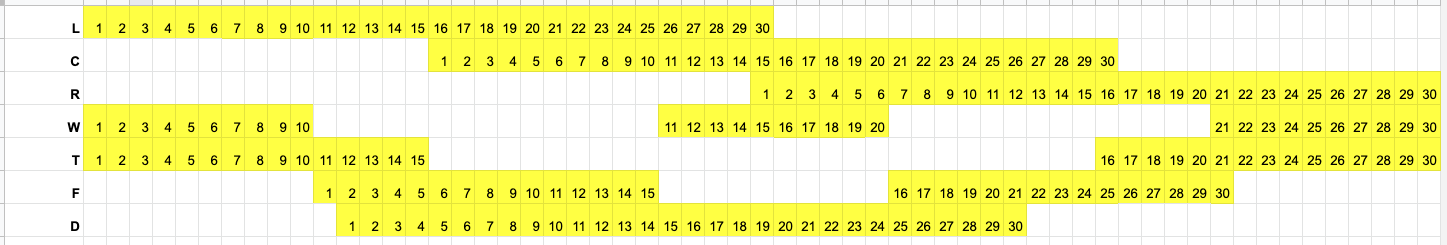
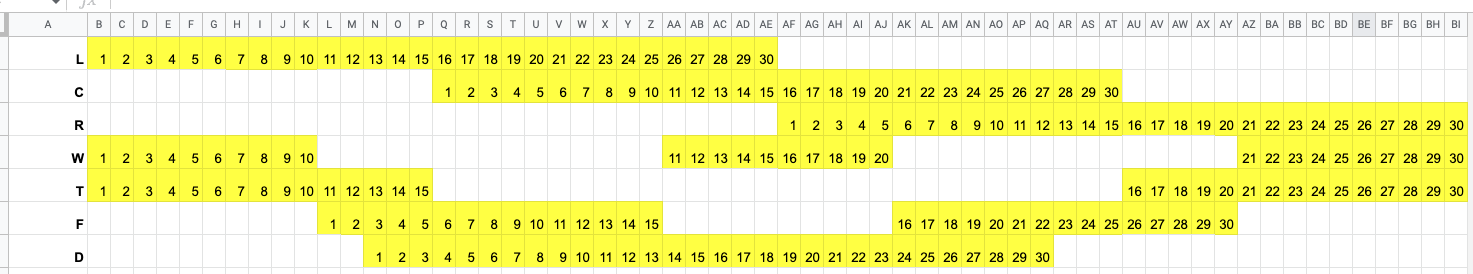
Update fakehd row mappings for switch back to 60 cols
Docs bump for grid size

Rename fakehd display info to full_display info to better reflect revised usage

diff --git a/jni/fakehd/fakehd.c b/jni/fakehd/fakehd.c
@@ -136,20 +136,20 @@ static void fakehd_get_row_config(int rownum, int row[INPUT_COLS])
         memcpy(row, (int[]){15, 16, 17, 18, 19, 20, 21, 22, 23, 24, 25, 26, 27, 28, 29, 30, 31, 32, 33, 34, 35, 36, 37, 38, 39, 40, 41, 42, 43, 44}, sizeof(row[0]) * INPUT_COLS);
         break;
     case 'R':
-        memcpy(row, (int[]){29, 30, 31, 32, 33, 34, 35, 36, 37, 38, 39, 40, 41, 42, 43, 44, 45, 46, 47, 48, 49, 50, 51, 52, 53, 54, 55, 56, 57, 58}, sizeof(row[0]) * INPUT_COLS);
+        memcpy(row, (int[]){30, 31, 32, 33, 34, 35, 36, 37, 38, 39, 40, 41, 42, 43, 44, 45, 46, 47, 48, 49, 50, 51, 52, 53, 54, 55, 56, 57, 58, 59}, sizeof(row[0]) * INPUT_COLS);
         break;
     case 'T':
-        memcpy(row, (int[]){0, 1, 2, 3, 4, 5, 6, 7, 8, 9, 10, 11, 12, 13, 14, 44, 45, 46, 47, 48, 49, 50, 51, 52, 53, 54, 55, 56, 57, 58}, sizeof(row[0]) * INPUT_COLS);
+        memcpy(row, (int[]){0, 1, 2, 3, 4, 5, 6, 7, 8, 9, 10, 11, 12, 13, 14, 45, 46, 47, 48, 49, 50, 51, 52, 53, 54, 55, 56, 57, 58, 59}, sizeof(row[0]) * INPUT_COLS);
         break;
     case 'F':
         memcpy(row, (int[]){10, 11, 12, 13, 14, 15, 16, 17, 18, 19, 20, 21, 22, 23, 24, 35, 36, 37, 38, 39, 40, 41, 42, 43, 44, 45, 46, 47, 48, 49}, sizeof(row[0]) * INPUT_COLS);
         break;
     case 'D':
-        memcpy(row, (int[]){11, 12, 13, 14, 15, 16, 17, 18, 19, 20, 21, 22, 23, 24, 25, 26, 27, 28, 29, 30, 31, 32, 33, 34, 35, 36, 37, 38, 39, 40}, sizeof(row[0]) * INPUT_COLS);
+        memcpy(row, (int[]){12, 13, 14, 15, 16, 17, 18, 19, 20, 21, 22, 23, 24, 25, 26, 27, 28, 29, 30, 31, 32, 33, 34, 35, 36, 37, 38, 39, 40, 41}, sizeof(row[0]) * INPUT_COLS);
         break;
     case 'W':
     default:
-        memcpy(row, (int[]){0, 1, 2, 3, 4, 5, 6, 7, 8, 9, 25, 26, 27, 28, 29, 30, 31, 32, 33, 34, 49, 50, 51, 52, 53, 54, 55, 56, 57, 58}, sizeof(row[0]) * INPUT_COLS);
+        memcpy(row, (int[]){0, 1, 2, 3, 4, 5, 6, 7, 8, 9, 25, 26, 27, 28, 29, 30, 31, 32, 33, 34, 50, 51, 52, 53, 54, 55, 56, 57, 58, 59}, sizeof(row[0]) * INPUT_COLS);
         break;
     }
 

diff --git a/jni/osd_dji_overlay_udp.c b/jni/osd_dji_overlay_udp.c
@@ -106,7 +106,7 @@ static display_info_t sd_display_info = {
     .font_page_2 = NULL,
 };
 
-static display_info_t fakehd_display_info = {
+static display_info_t full_display_info = {
     .char_width = 60,
     .char_height = 22,
     .font_width = 24,
@@ -361,8 +361,8 @@ static void load_fonts(uint8_t font_variant) {
     load_font(&sd_display_info.font_page_2, 1, 0, font_variant);
     load_font(&hd_display_info.font_page_1, 0, 1, font_variant);
     load_font(&hd_display_info.font_page_2, 1, 1, font_variant);
-    load_font(&fakehd_display_info.font_page_1, 0, 1, font_variant);
-    load_font(&fakehd_display_info.font_page_2, 1, 1, font_variant);
+    load_font(&full_display_info.font_page_1, 0, 1, font_variant);
+    load_font(&full_display_info.font_page_2, 1, 1, font_variant);
     load_font(&overlay_display_info.font_page_1, 0, 1, font_variant);
     load_font(&overlay_display_info.font_page_2, 1, 1, font_variant);
 }
@@ -385,7 +385,7 @@ static void close_all_fonts() {
     close_fonts(&sd_display_info);
     close_fonts(&hd_display_info);
     close_fonts(&overlay_display_info);
-    close_fonts(&fakehd_display_info);
+    close_fonts(&full_display_info);
 }
 
 static void msp_set_options(uint8_t font_num, uint8_t is_hd) {
@@ -393,7 +393,7 @@ static void msp_set_options(uint8_t font_num, uint8_t is_hd) {
     switch (is_hd) {
         case 3:
             fakehd_enabled = 0;
-            current_display_info = &fakehd_display_info;
+            current_display_info = &full_display_info;
             break;
         case 2:
         case 1:
@@ -607,7 +607,7 @@ void osd_directfb(duss_disp_instance_handle_t *disp, duss_hal_obj_handle_t ion_h
     DEBUG_PRINT("Detected DJI goggles %s\n", is_v2_goggles ? "V2" : "V1");
 
     if (fakehd_enabled) {
-        current_display_info = &fakehd_display_info;
+        current_display_info = &full_display_info;
     } else {
         current_display_info = &sd_display_info;
     }

diff --git a/README.md b/README.md
@@ -99,10 +99,10 @@ Each row can be set to one of:
 |---|----|
 | L | Left aligned, the SD row occupies cell 1-30, no gaps |
 | C | Center aligned, the SD row occupies cell 16-45, no gaps |
-| R | Right aligned, , the SD row occupies cell 30-59, no gaps |
-| W | Split A - Row is split in 3, the FakeHD default, filling cells 1-10, 26-35, 50-59 |
-| T | Split B - Row is split in 2, touching the sides - filling cells 1-15 + 45-59 |
-| F | Split C - Row is split in 2 and away from the sides - filling cells 11-25 + 35-49 |
+| R | Right aligned, , the SD row occupies cell 31-60, no gaps |
+| W | Split A - Row is split in 3, the FakeHD default, filling cells 1-10, 26-35, 51-60 |
+| T | Split B - Row is split in 2, touching the sides - filling cells 1-15 + 46-60 |
+| F | Split C - Row is split in 2 and away from the sides - filling cells 11-25 + 36-50 |
 | D | DJI Special - Row is centered but pushed a little left; used to posiution the bottom row between the existing DJI OSD elements |
 
 <img src="/docs/img/fakehd_rows.png" alt="Columns"  height=200 />
